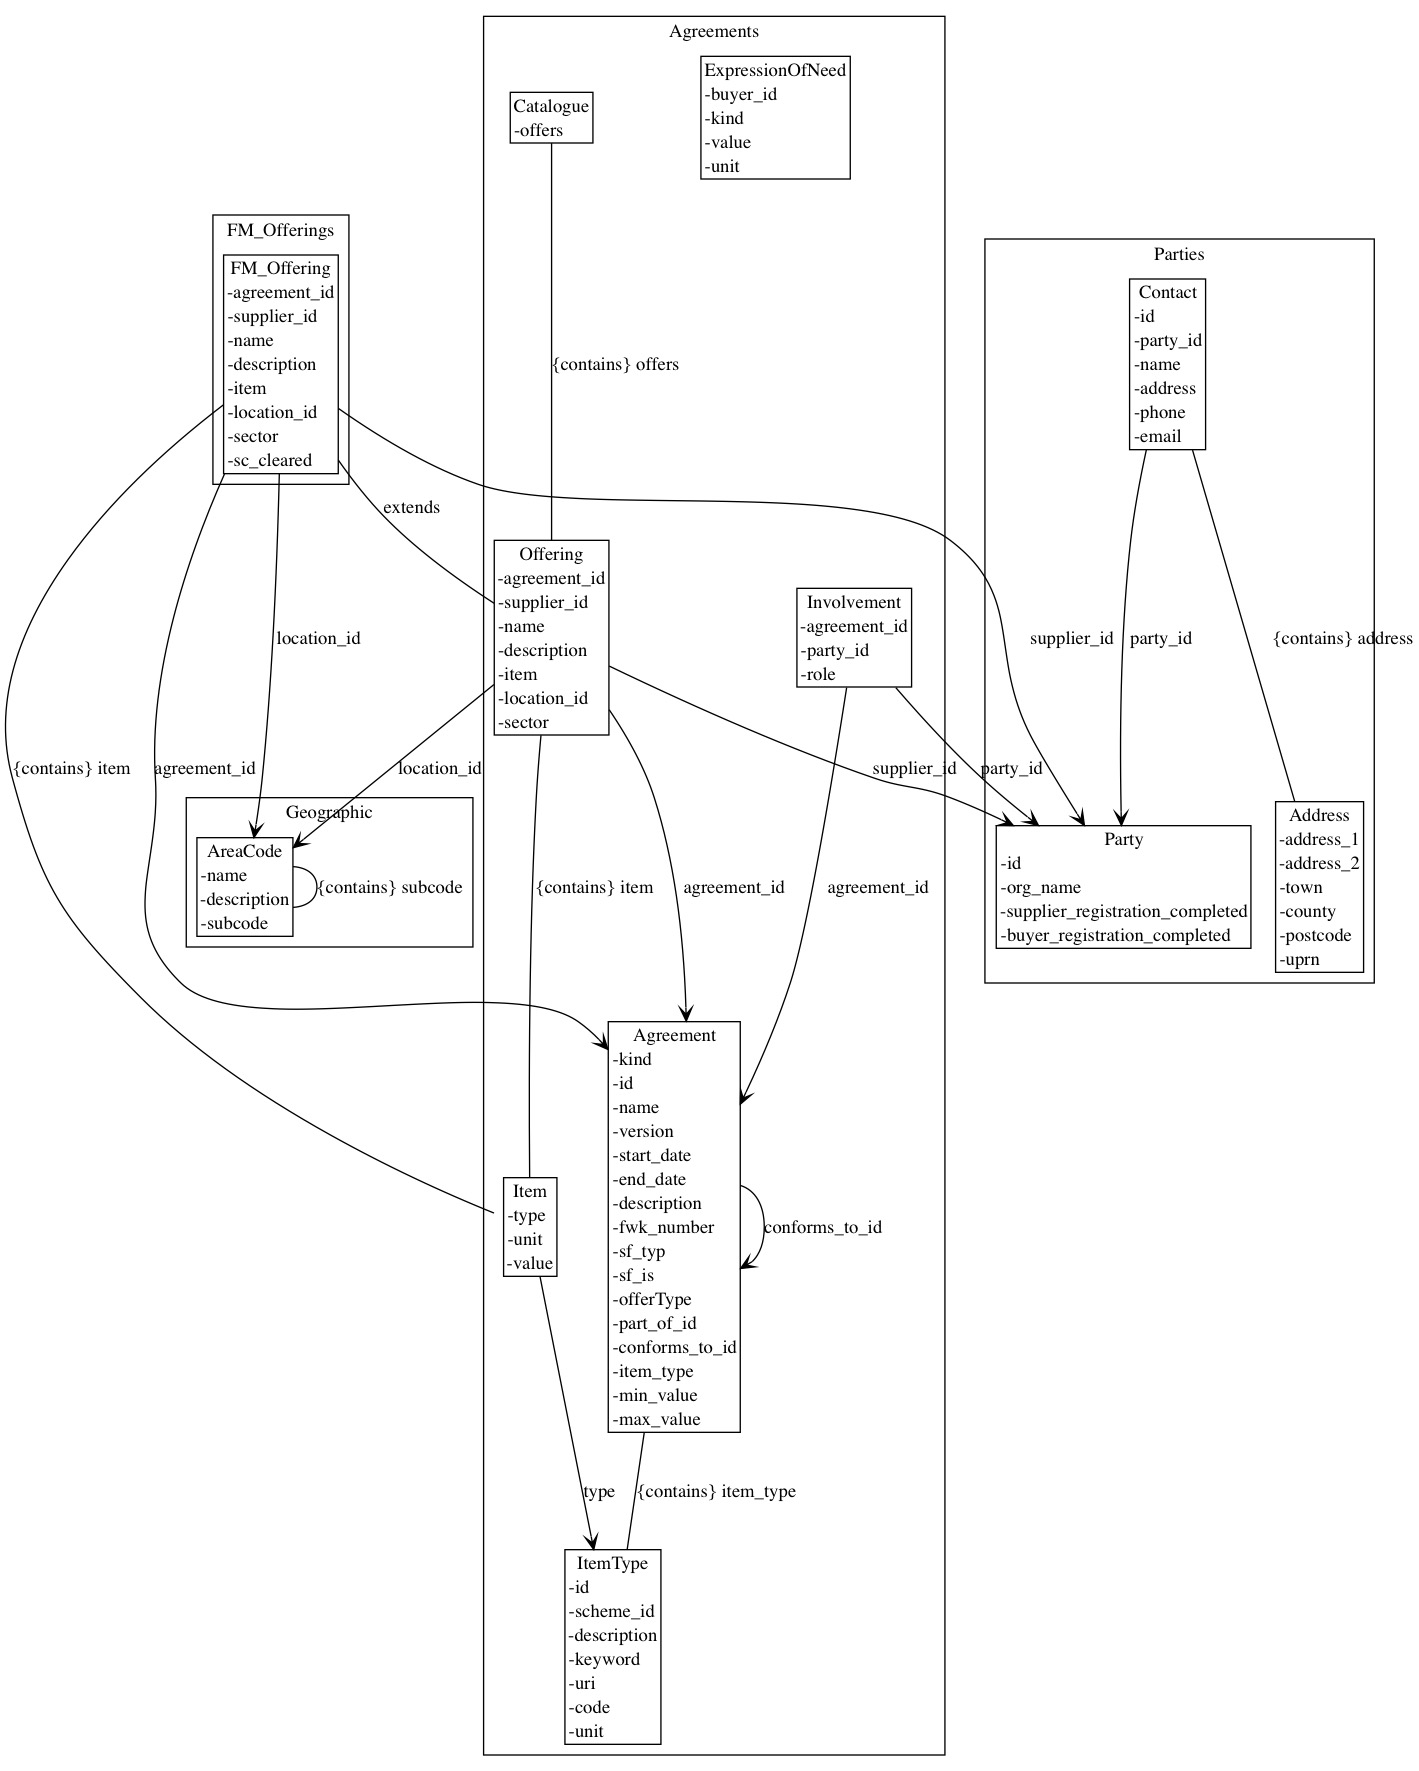
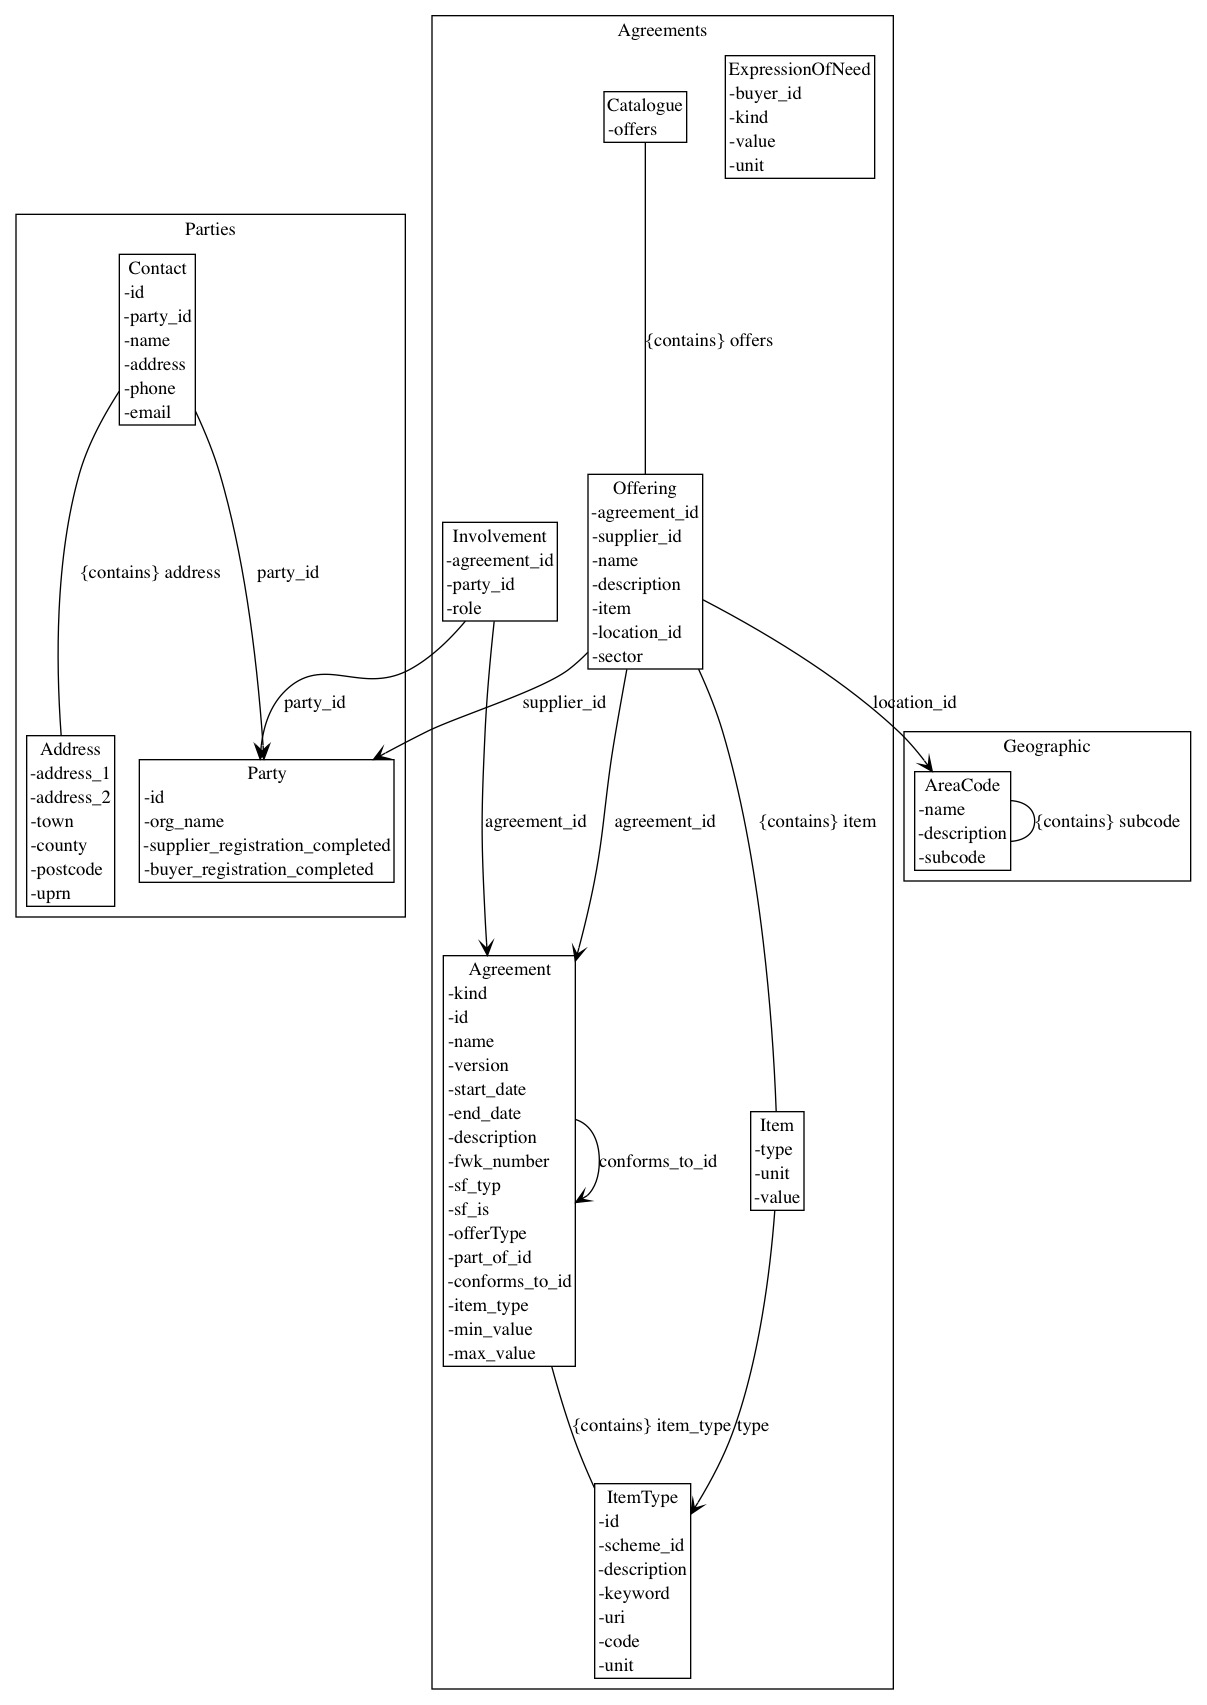
Improve doc

diff --git a/agreement-design/src/doc.rb b/agreement-design/src/doc.rb
@@ -4,14 +4,20 @@ include Transform
 class Document < Output
 
   def initialize dir, name
-    super File.join( dir, "doc"), name, "md"
+    super File.join(dir, "doc"), name, "md"
   end
 
   def document *models
     file do |file|
       transform_datamodel(
           {
-              :before_type => lambda do |type:, depth: 0, index:,total:|
+              :before_model => lambda do |model: |
+                file.print %Q!# Model: #{model.name} \n!
+              end,
+              :before_group => lambda do |name: |
+                file.print %Q!## #{name}\n!
+              end,
+              :before_type => lambda do |type:, depth: 0, index:, total:|
                 file.print %Q!####{'#' * depth} #{type.name} #{type.attributes[:id] || ""} \n!
               end,
               :attribute => lambda do |id:, val:, depth: 0, type: nil, index:, total:|
@@ -29,9 +35,9 @@ class Document < Output
                 file.print %Q!\# Data model: #{model}\n!
               end,
               before_group: lambda do |group|
-                file.print %Q!\# #{cat.class}: #{cat.name}\n!
-                if (cat.respond_to?(:description))
-                  file.print %Q! #{cat.description}\n!
+                file.print %Q!\# #{group.class}: #{group.name}\n!
+                if (group.respond_to?(:description))
+                  file.print %Q! #{group.description}\n!
                 end
               end,
               before_type: lambda do |type:, depth:, index:, total:|

diff --git a/agreement-design/generate.rb b/agreement-design/generate.rb
@@ -6,11 +6,10 @@ require_relative "model/agreement"
 require_relative "model/fm"
 require_relative "model/supply_teachers"
 
-path = File.join(File.dirname(__FILE__), '../', "gen")
+path = File.join(File.dirname(__FILE__), "gen")
 
-metamodels = [Agreements, Parties, Geographic, FM_Offerings]
+metamodels = [Agreements, Parties, Geographic]
 models = [
-    Agreements::FM_Agreements,
     Agreements::ST_Agreements,
     Geographic::NUTS,
 ]
@@ -32,8 +31,8 @@ data.output *models
 # data= DataFile.new( path, "fm_agreements", fmt: :jsonlines)
 # data.output Agreements::FM_Agreements
 
-data = DataFile.new(path, "fm_catalogue", fmt: :jsonlines)
-data.output FM_Offerings::FM_Catalogue
+# data = DataFile.new(path, "fm_catalogue", fmt: :jsonlines)
+# data.output FM_Offerings::FM_Catalogue
 
 # data= DataFile.new( path, "st_agreements", fmt: :jsonlines)
 # data.output Agreements::ST_Agreements

diff --git a/agreement-design/src/data.rb b/agreement-design/src/data.rb
@@ -21,7 +21,7 @@ class DataFile < Output
     stack = [map]
     transform_datamodel(
         {
-            :before_group => lambda do |name:, depth:|
+            :before_group => lambda do |name:|
               # group all instances of the same type name into the same array in the top level map
               if map[name]
                 stack.push(map[name])

diff --git a/agreement-design/model/supply_teachers.rb b/agreement-design/model/supply_teachers.rb
@@ -9,6 +9,7 @@ SUPPLY_TEACHER_AGENCY_LOT_ID = "#{SUPPLY_TEACHER_FRAMEWORK_ID}.AG"
 Agreements.new(:ST_Agreements) {
   agreement {
     kind :Framework
+    name "Supply Teachers framework"
     id SUPPLY_TEACHER_FRAMEWORK_ID
     fwk_number "RM1234" #TODO proper fwk number for Supply teachers
     version "0.1.0"

diff --git a/agreement-design/src/transform.rb b/agreement-design/src/transform.rb
@@ -38,8 +38,8 @@ module Transform
     return [model: model, code: code]
   end
 
-  def before_group_lambda name: nil, depth: 0
-    return [name: name, depth: depth]
+  def before_group_lambda name: nil
+    return [name: name]
   end
 
   def after_group_lambda name: nil, before: nil, depth: 0

diff --git a/agreement-design/gen/doc/data.md b/agreement-design/gen/doc/data.md
@@ -1,36 +1,8 @@
-###  FM 
+# Model: ST_Agreements 
+## agreement
+### Supply Teachers framework ST 
    - kind Framework
-   - id FM
-   - fwk_number RM8330
-   - version 0.1.0
-   - description This agreement is for the provision of Facilities Management
-   - start_date 2018-10-01
-### low-to-mid value Facilities Management Lot FM lot 1 
-   - kind Lot
-   - id FM lot 1
-   - name low-to-mid value Facilities Management Lot
-   - part_of_id FM
-   - min_value 0
-   - max_value 70000000
-   - version 0.1.0
-#### itemtype FM.1a-C.3 
-     - id FM.1a-C.3
-     - scheme_id CCS
-     - unit Currency
-     - code CCS-building-area-method
-     - keyword cleaning
-     - keyword washing
-     - keyword janitor
-### itemtype FM.1a-C.3 
-   - id FM.1a-C.3
-   - scheme_id CCS
-   - unit Currency
-   - code CCS-building-area-method
-   - keyword cleaning
-   - keyword washing
-   - keyword janitor
-###  ST 
-   - kind Framework
+   - name Supply Teachers framework
    - id ST
    - fwk_number RM1234
    - version 0.1.0
@@ -131,6 +103,7 @@
 #### itemtype FTA_SEN 
      - description Fixed Term Role (on School Payroll)
      - id FTA_SEN
+## itemtype
 ### itemtype QT_NonSEN 
    - description Qualified Teacher: Non-SEN Roles
    - id QT_NonSEN
@@ -172,6 +145,8 @@
 ### itemtype FTA_SEN 
    - description Fixed Term Role (on School Payroll)
    - id FTA_SEN
+# Model: NUTS 
+## areacode
 ### UK  
    - name UK
 #### UKC  

diff --git a/agreement-design/gen/doc/metamodel.md b/agreement-design/gen/doc/metamodel.md
@@ -151,17 +151,3 @@ will contain UPRN if we have derived it.
 |name|String|1||
 |description|String|1||
 |subcode|Geographic::AreaCode|*|UUID or Salesforce ID?|
-# Data model: FM_Offerings
-## FM_Offering extends Agreements::Offering
-   An offer for FM elements 
-
-|attribute|type|multiplicity|description|
-|---------|----|------------|-----------|
-|agreement_id|String -> Agreements::Agreement|1|The agreement this offering relates to|
-|supplier_id|String -> Parties::Party|1||
-|name|String|1||
-|description|String|1||
-|item|Agreements::Item|*|details of the item|
-|location_id|String -> Geographic::AreaCode|1..*|Pick list of applicable regions. There must be at least one, even if it is just 'UK'|
-|sector|(ALL,Education,CentralGov,WiderGov,Etc)|*|Pick list of applicable sectors.|
-|sc_cleared|String|1||

diff --git a/agreement-design/README.md b/agreement-design/README.md
@@ -28,6 +28,9 @@ the build script generates [outputs](gen) including
 - a [picture](gen/images/metamodel.jpg) of the metamodel
 - documentation for the agreements and metamodel
 
+# Requirements
+
+- graphviz (for diagrams§)
 
 # To do
 
